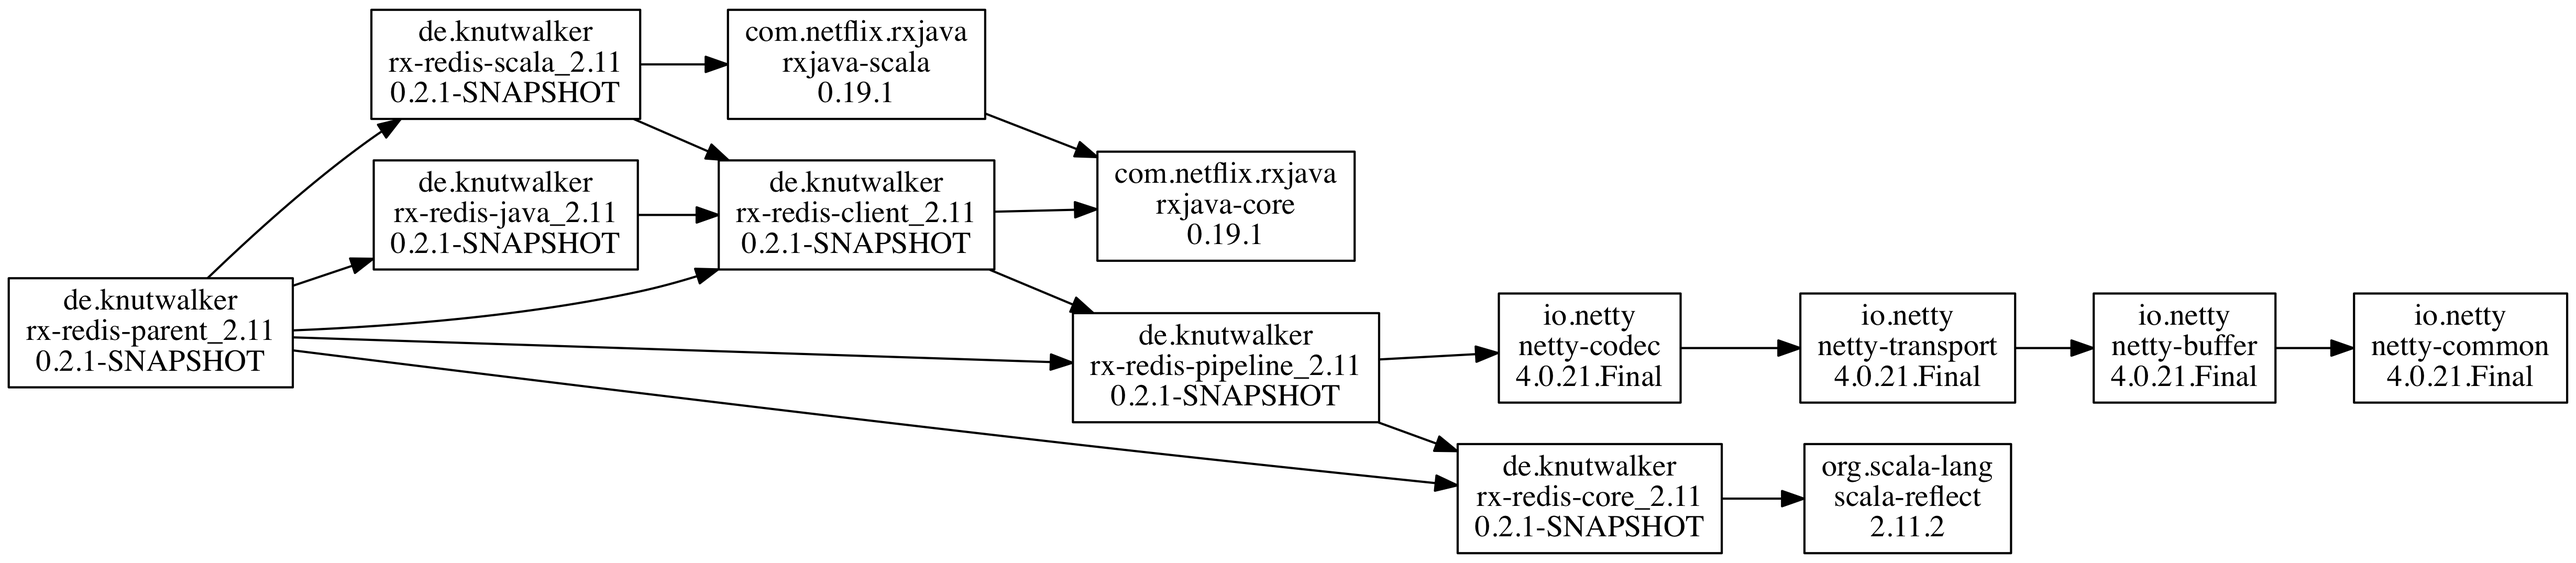
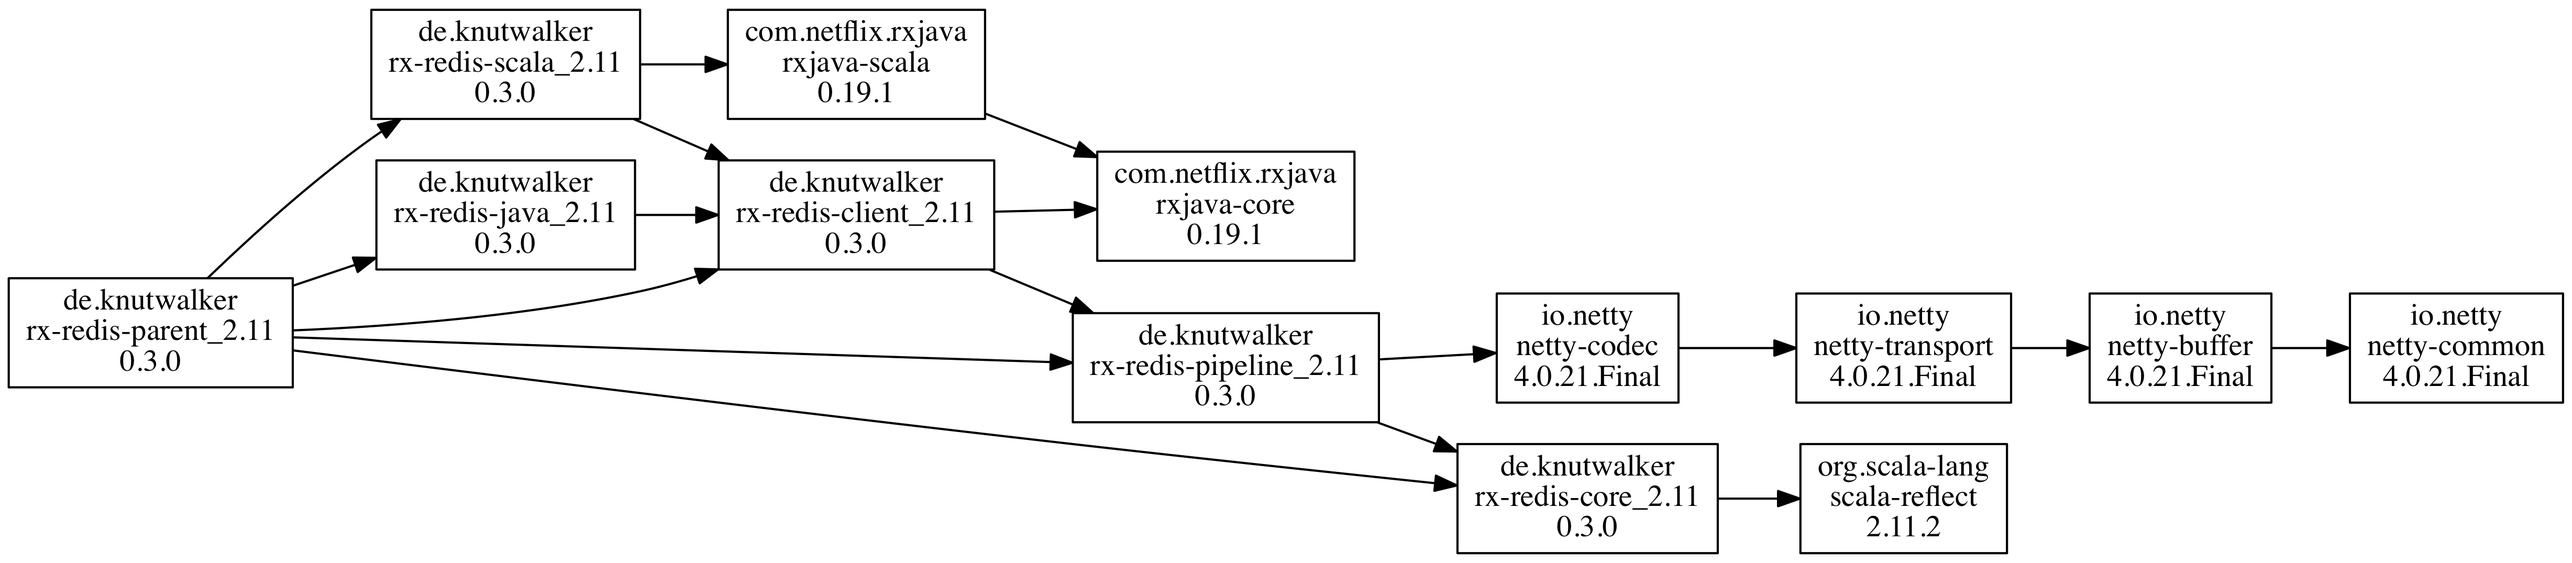
update doc files for 0.3.0

diff --git a/README.md b/README.md
@@ -20,22 +20,22 @@ RxRedis comes with a small type tree for the Redis Serialization Protocol (RESP)
 
 ## Installation
 
-RxRedis can be obtained from [Maven Central](http://search.maven.org/#search|ga|1|g%3A%22de.knutwalker%22%20AND%20a%3Arx-redis-*_2.11%20AND%20v%3A%220.2.0%22).
+RxRedis can be obtained from [Maven Central](http://search.maven.org/#search|ga|1|g%3A%22de.knutwalker%22%20AND%20a%3Arx-redis-*_2.11%20AND%20v%3A%220.3.0%22).
 
-The main artifacts are `rx-redis-java_2.11` for the Java binding and `rx-redis-scala_2.11` for the Scala binding. The current version is 0.2.0.
+The main artifacts are `rx-redis-java_2.11` for the Java binding and `rx-redis-scala_2.11` for the Scala binding. The current version is 0.3.0.
 
 For maven:
 
     <dependency>
         <groupId>de.knutwalker</groupId>
         <artifactId>rx-redis-java_2.11</artifactId>
-        <version>0.2.0</version>
+        <version>0.3.0</version>
     </dependency>
 
 
 For sbt:
 
-    libraryDependencies += "de.knutwalker" %% "rx-redis-scala" % "0.2.0"
+    libraryDependencies += "de.knutwalker" %% "rx-redis-scala" % "0.3.0"
 
 
 RxRedis has a dependency on RxNetty and transitive on Netty and RxJava. The Scala binding also depend on the Scala bindings of RxJava.
